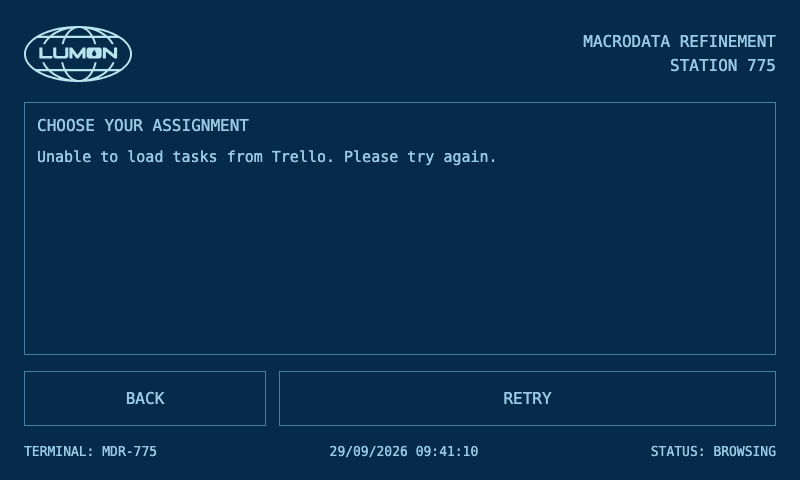
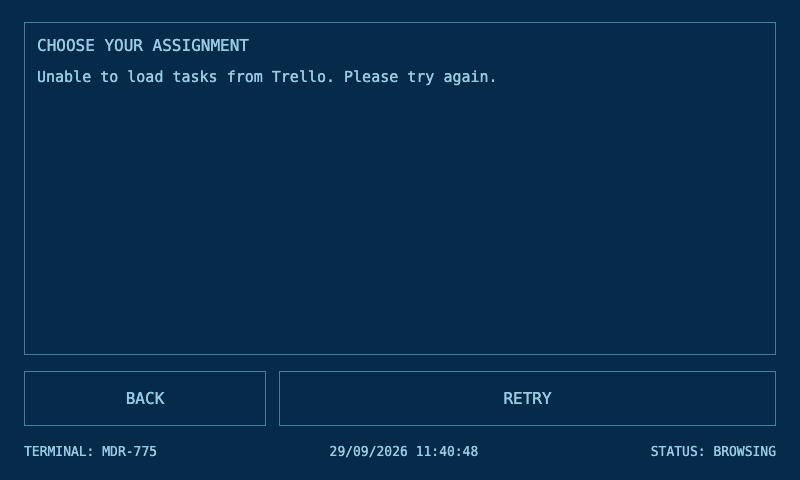
Simplify active task display and enlarge task cards

diff --git a/software/taskticket/static/terminal.js b/software/taskticket/static/terminal.js
@@ -4,10 +4,7 @@
   const buttons = [el('newTaskBtn'), el('yesBtn'), el('noBtn')];
   let currentTask = null;
   let busy = false;
-  let timer = null;
   let startedAt = 0;
-  let estimatedSeconds = 0;
-  let challengeSeconds = 0;
   let online = null;
   let timezone = 'Europe/Luxembourg';
   let pickerView = null;
@@ -54,7 +51,7 @@
       numberCells = Array.from({ length: columns * rows }, () => ({ digit: Math.floor(random() * 10), phase: random() * Math.PI * 2 }));
     }
     const style = getComputedStyle(document.body);
-    const moving = !reducedMotion.matches && estimatedSeconds > 0 && Date.now() - startedAt < estimatedSeconds * 1000;
+    const moving = !reducedMotion.matches && currentTask !== null;
     if (moving) numberTime = performance.now() / 6000;
     numberContext.setTransform(scale, 0, 0, scale, 0, 0);
     numberContext.clearRect(0, 0, width, height);
@@ -81,7 +78,7 @@
     pauseNumbers();
     if (!currentTask || el('numberField').hidden) return;
     drawNumbers();
-    if (!reducedMotion.matches && !document.hidden && Date.now() - startedAt < estimatedSeconds * 1000) {
+    if (!reducedMotion.matches && !document.hidden) {
       numberInterval = setInterval(drawNumbers, 150);
     }
   }
@@ -89,6 +86,7 @@
   function updateControls() {
     const picking = pickerView !== null;
     document.body.classList.toggle('picking', picking);
+    document.body.classList.toggle('browsing-grid', pickerView === 'grid');
     document.querySelector('nav.actions').hidden = picking;
     el('pickerActions').hidden = !picking;
     el('taskPicker').hidden = pickerView !== 'grid';
@@ -237,51 +235,21 @@
     }
   }
 
-  function stopTimer() {
-    if (timer !== null) clearInterval(timer);
-    timer = null;
-    el('taskTimer').hidden = true;
-    if (el('progressSummary')) el('progressSummary').hidden = true;
+  function stopTaskDisplay() {
     pauseNumbers();
     el('numberField').hidden = true;
-    el('sessionProgress').textContent = 'Awaiting task';
-    el('focusProgress').style.width = '0%';
-    document.body.classList.remove('time-warning', 'time-danger');
-  }
-
-  function formatTime(seconds) {
-    const value = Math.max(0, Math.ceil(seconds));
-    return `${String(Math.floor(value / 60)).padStart(2, '0')}:${String(value % 60).padStart(2, '0')}`;
-  }
-
-  function updateTimer() {
-    const elapsed = (Date.now() - startedAt) / 1000;
-    const percent = Math.min(100, Math.max(0, Math.floor(elapsed / estimatedSeconds * 100)));
-    el('sessionProgress').textContent = `${percent}% Elapsed`;
-    el('focusProgress').style.width = `${percent}%`;
-    el('estimatedTimeDisplay').textContent = formatTime(estimatedSeconds - elapsed);
-    el('challengeTimeDisplay').textContent = formatTime(challengeSeconds - elapsed);
-    document.body.classList.toggle('time-warning', elapsed >= estimatedSeconds);
-    document.body.classList.toggle('time-danger', challengeSeconds > 0 && elapsed >= challengeSeconds);
-    if (percent >= 100) pauseNumbers();
   }
 
   function showTask(task, start = Date.now()) {
     pickerView = null;
     pickerGroup = null;
     selectedTask = null;
-    const estimate = Number.parseFloat(task.estimated_time);
-    const challenge = Number.parseFloat(task.challenge_time);
-    estimatedSeconds = Number.isFinite(estimate) && estimate > 0 ? estimate * 60 : 15 * 60;
-    challengeSeconds = Number.isFinite(challenge) && challenge > 0 ? challenge * 60 : 0;
-    render(task.ticket_title || task.title || 'Your assignment', task.motivation || 'Please proceed with your important work.');
-    el('taskTimer').hidden = false;
-    if (el('progressSummary')) el('progressSummary').hidden = false;
-    el('challengeRow').hidden = challengeSeconds === 0;
+    // Older saved assignments also contain this fixed-session boilerplate.
+    const description = String(task.motivation || 'Please proceed with your important work.')
+      .replace(/^A \d+(?:\.\d+)?-minute focus session\.\s*/i, '');
+    render(task.ticket_title || task.title || 'Your assignment', description);
     startedAt = Number.isFinite(start) ? Math.min(start, Date.now()) : Date.now();
     saveSession();
-    updateTimer();
-    timer = setInterval(updateTimer, 1000);
     numberSeed = task.task_id || task.ticket_title || '';
     numberCells = [];
     numberTime = 0;
@@ -313,7 +281,7 @@
     render('Retrieving assignment', 'Please wait. Your ticket will print when ready.');
     try {
       const result = await request('/print_task', chosenTask ? { task_id: chosenTask.task_id } : undefined);
-      stopTimer();
+      stopTaskDisplay();
       currentTask = result.task;
       showTask(currentTask);
     } catch (error) {
@@ -343,7 +311,7 @@
       await request(action === 'complete' ? '/complete_task' : '/skip_task', {
         task_id: currentTask.task_id, source_list: currentTask.source_list
       });
-      stopTimer();
+      stopTaskDisplay();
       currentTask = null;
       saveSession();
       if (action === 'complete') {
@@ -352,7 +320,7 @@
         render('Assignment deferred', 'This task will be held for seven days.\nSelect New Task to continue your work.');
       }
     } catch (error) {
-      // Keep the current task and timer so failed actions can be retried.
+      // Keep the current task so failed actions can be retried.
       render('System notice', 'The assignment remains open here. Its update could not be confirmed; check Trello before retrying.');
     } finally {
       busy = false;

diff --git a/software/taskticket/static/terminal-shared.css b/software/taskticket/static/terminal-shared.css
@@ -4,9 +4,6 @@ html, body, *, *::before, *::after { cursor: none !important; }
 .theme-link:focus-visible { outline: 1px solid var(--ink); outline-offset: 3px; }
 .refinement-field { flex: 0 0 70px; margin-top: 8px; min-width: 0; overflow: hidden; pointer-events: none; }
 .refinement-field canvas { display: block; width: 100%; height: 70px; }
-.session-progress { display: flex; align-items: center; gap: 9px; font-size: 12px; white-space: nowrap; }
-.session-progress .progress-track { width: 65px; height: 7px; border: 1px solid var(--line); padding: 1px; }
-.session-progress #focusProgress { height: 100%; width: 0; background: var(--ink); }
 .workspace-bottom { flex-wrap: wrap; }
 .wide-action { grid-column: span 2; }
 .task-picker { flex: 1; min-height: 0; display: flex; flex-direction: column; gap: 9px; }
@@ -18,9 +15,9 @@ html, body, *, *::before, *::after { cursor: none !important; }
 .task-grid { flex: 1; min-height: 0; display: grid; grid-template-columns: repeat(3, minmax(0, 1fr)); grid-template-rows: repeat(3, minmax(0, 1fr)); gap: 8px; }
 .task-card { min-height: 0; min-width: 0; padding: 6px 9px; display: flex; flex-direction: column; justify-content: center; align-items: stretch; text-align: left; gap: 3px; overflow: hidden; }
 .task-card::before { display: none; }
-.task-card-title { font-size: 14px; line-height: 1.25; overflow-wrap: anywhere; display: -webkit-box; -webkit-box-orient: vertical; -webkit-line-clamp: 2; overflow: hidden; }
+.task-card-title { font-size: 14px; line-height: 1.25; overflow-wrap: anywhere; display: -webkit-box; -webkit-box-orient: vertical; -webkit-line-clamp: 3; overflow: hidden; }
 .task-card-source { font-size: 10px; line-height: 1.2; letter-spacing: .06em; }
 .task-card:active:not(:disabled), .picker-actions button:active:not(:disabled) { background: var(--ink); color: var(--bg); }
 body.picking .workspace { padding: 12px; }
 body.picking .workspace-bottom { display: none; }
-@media (max-width: 640px) { .session-progress { font-size: 10px; } .session-progress .progress-track { width: 45px; } }
+body.browsing-grid .masthead { display: none; }

diff --git a/software/taskticket/templates/terminal_mdr.html b/software/taskticket/templates/terminal_mdr.html
@@ -5,17 +5,13 @@
   <meta name="viewport" content="width=device-width, initial-scale=1">
   <title>Lumon · Task Refinement</title>
   <link rel="stylesheet" href="/static/terminal-mdr.css?v=4">
-  <link rel="stylesheet" href="/static/terminal-shared.css?v=7">
-  <script defer src="/static/terminal.js?v=7"></script>
+  <link rel="stylesheet" href="/static/terminal-shared.css?v=8">
+  <script defer src="/static/terminal.js?v=8"></script>
 </head>
 <body>
   <main class="terminal">
     <header class="masthead">
       <h1>Task Refinement</h1>
-      <div class="file-progress" aria-label="Focus session elapsed">
-        <span class="progress-label" id="sessionProgress">Awaiting task</span>
-        <div class="progress-track"><div id="focusProgress"></div></div>
-      </div>
       <a class="theme-link" href="/display?theme=classic" aria-label="Switch terminal layout" title="Switch terminal layout"><img class="logo" src="/static/lumon.svg" alt="Lumon Industries" width="76" height="38"></a>
     </header>
     <section class="workspace" aria-label="Current assignment">
@@ -31,10 +27,6 @@
       <div class="refinement-field" id="numberField" hidden aria-hidden="true"><canvas id="numberCanvas"></canvas></div>
       <div class="workspace-bottom">
         <span class="file-label">Macrodata Refinement</span>
-        <aside class="timer" id="taskTimer" hidden aria-label="Assignment timer">
-          <span>Focus <span class="timer-value" id="estimatedTimeDisplay">--:--</span></span>
-          <span class="challenge" id="challengeRow" hidden>Challenge <span id="challengeTimeDisplay">--:--</span></span>
-        </aside>
       </div>
     </section>
     <nav class="actions" aria-label="Task actions">

diff --git a/software/taskticket/templates/terminal.html b/software/taskticket/templates/terminal.html
@@ -5,8 +5,8 @@
   <meta name="viewport" content="width=device-width, initial-scale=1">
   <title>Lumon · Macrodata Refinement</title>
   <link rel="stylesheet" href="/static/terminal.css?v=4">
-  <link rel="stylesheet" href="/static/terminal-shared.css?v=7">
-  <script defer src="/static/terminal.js?v=7"></script>
+  <link rel="stylesheet" href="/static/terminal-shared.css?v=8">
+  <script defer src="/static/terminal.js?v=8"></script>
 </head>
 <body>
   <main class="terminal">
@@ -30,11 +30,6 @@
       <div class="refinement-field" id="numberField" hidden aria-hidden="true"><canvas id="numberCanvas"></canvas></div>
       <div class="workspace-bottom">
         <div class="terminal-prompt">mdr&gt;<span class="cursor" aria-hidden="true"></span></div>
-        <div class="session-progress" id="progressSummary" hidden><span id="sessionProgress">Awaiting task</span><div class="progress-track"><div id="focusProgress"></div></div></div>
-        <aside class="timer" id="taskTimer" hidden aria-label="Assignment timer">
-          <span>FOCUS <span class="timer-value" id="estimatedTimeDisplay">--:--</span></span>
-          <span class="challenge" id="challengeRow" hidden>CHALLENGE <span id="challengeTimeDisplay">--:--</span></span>
-        </aside>
       </div>
     </section>
     <nav class="actions" aria-label="Task actions">

diff --git a/software/deploy_compact_grid.py b/software/deploy_compact_grid.py
@@ -1,0 +1,81 @@
+"""Guarded compact-grid deployment; never issues a ticket or edits task history."""
+from datetime import datetime, timezone
+import hashlib
+import json
+from pathlib import Path
+import shutil
+import subprocess
+import time
+from urllib.request import urlopen
+
+app = Path('/home/srizzo/taskticket/TaskTicket')
+stage = Path(__file__).resolve().parent / 'taskticket'
[1 lines of base64/hex data omitted]
+
+
+def digest(path):
+    return hashlib.sha256(path.read_bytes()).hexdigest()
+
+
+def kiosk(action):
+    subprocess.run(['sudo', '-n', 'systemctl', action, 'taskiosk.service'], check=True)
+
+
+def subscriber_pid():
+    return subprocess.check_output(['systemctl', 'show', 'thermal-printer-subscriber.service', '-p', 'MainPID', '--value'], text=True).strip()
+
+
+for relative, checksum in expected.items():
+    if digest(app / relative) != checksum:
+        raise SystemExit('Source changed since inspection: ' + relative)
+    if not (stage / relative).is_file():
+        raise SystemExit('Missing staged file: ' + relative)
+    if relative.endswith('.py'):
+        compile((stage / relative).read_text(), relative, 'exec')
+
+backup = app.parent / 'backups' / ('compact-grid-' + datetime.now(timezone.utc).strftime('%Y%m%dT%H%M%SZ'))
+backup.mkdir(parents=True, exist_ok=False)
+for relative in expected:
+    (backup / relative).parent.mkdir(parents=True, exist_ok=True)
+    shutil.copy2(app / relative, backup / relative)
+
+history = app / 'data/task_history.json'
+subscriber_before = subscriber_pid()
+kiosk('stop')
+history_hash = digest(history)
+try:
+    for relative in expected:
+        shutil.copy2(stage / relative, app / relative)
+    kiosk('start')
+    for attempt in range(30):
+        try:
+            with urlopen('http://127.0.0.1:5000/display', timeout=2) as response:
+                body = response.read()
+                if b'id="manageBtn"' in body and b'terminal.js?v=8' in body:
+                    break
+        except OSError:
+            pass
+        time.sleep(1)
+    else:
+        raise RuntimeError('Updated kiosk did not become healthy')
+    with urlopen('http://127.0.0.1:5000/display?theme=mdr', timeout=5) as response:
+        assert b'id="taskGrid"' in response.read()
+    assert digest(history) == history_hash, 'History changed during deployment'
+    assert subscriber_pid() == subscriber_before, 'Message-printer service restarted unexpectedly'
+except Exception:
+    kiosk('stop')
+    for relative in expected:
+        shutil.copy2(backup / relative, app / relative)
+    kiosk('start')
+    raise
+
+manifest = {
+    'deployed_at': datetime.now(timezone.utc).isoformat(), 'backup': str(backup),
+    'changed_files': list(expected), 'history_unchanged': digest(history) == history_hash,
+    'subscriber_pid_unchanged': subscriber_before == subscriber_pid(),
+    'deployed_sha256': {relative: digest(app / relative) for relative in expected},
+    'version': 'Larger task cards; no fixed focus UI on active tasks',
+    'rollback': 'Stop taskiosk.service, restore changed_files from backup, then start taskiosk.service.',
+}
+(backup / 'deployment.json').write_text(json.dumps(manifest, indent=2) + '\n')
+print(json.dumps(manifest))

diff --git a/software/preview/server.py b/software/preview/server.py
@@ -68,7 +68,7 @@ class Preview(SimpleHTTPRequestHandler):
             if 'task_id' in data:
                 chosen = next((task for task in tasks if task['task_id'] == data['task_id']),None)
                 if chosen is None: return self.json({'success':False},404)
-                state['current_task'] = {**chosen, 'ticket_title':chosen['title'], 'estimated_time':'15', 'selection_method':'manual'}
+                state['current_task'] = {**chosen, 'ticket_title':chosen['title'], 'estimated_time':'15', 'selection_method':'manual', 'motivation':'A 15-minute focus session. One task at a time.'}
             state["started_at"] = time.time() * 1000
             return self.json({"success": True, "task": state["current_task"]})
         if self.path in ("/complete_task", "/skip_task"):

diff --git a/software/README.md b/software/README.md
@@ -17,6 +17,9 @@ It opens a 3 × 3 grid of Trello cards, with Previous/Next for additional pages.
 DOING and TODO tasks appear directly; **Better Than Nothing** appears as one
 group card showing its task count. Tap it to browse its own 3 × 3 grid.
 **Back to Main** returns to the parent page, and the group itself never prints.
+The logo/station header is hidden in both grids to give the cards more vertical
+space and up to three lines for their titles. It returns on the welcome,
+task-detail and active-task screens; the connection footer remains visible.
 The main grid shows **Total focus** beside the page count: the number of open
 DOING/TODO tasks across every page multiplied by the configured focus-session
 duration (currently 15 minutes). Better Than Nothing tasks and the group card
@@ -24,7 +27,7 @@ are excluded. This is planned focus time, not a prediction of completion time;
 the app does not currently store individual task-duration estimates. The total
 is hidden inside the nested group, while loading, and on errors.
 Tap a card to read its full title, then **Start & Print** to issue that specific
-task and start its normal focus timer. Back returns to the same grid page.
+task. Back returns to the same grid page.
 Both layouts support the picker; **M** opens it and Escape goes back.
 Complete and Skip return when an assignment is active.
 
@@ -34,19 +37,18 @@ deliberately bypasses the automatic selector's cooldown and weighting, and never
 uses AI. Merely browsing or inspecting a card does not print or update history.
 The server rechecks open cards before printing, so a card completed or archived
 elsewhere cannot silently issue an unrelated task. Tickets record
-`selection_method=manual`; completion, timer restoration and printing use the
+`selection_method=manual`; completion, assignment restoration and printing use the
 existing workflow. [Picker preview with synthetic tasks](preview/manage-classic-grid.png).
 
 Both layouts hide the mouse pointer, including over controls. The kiosk also
 runs `unclutter-xfixes` with a one-second idle timeout to hide the native X11
 pointer before Chromium receives its first mouse-motion event. Its process is
-supervised by the existing kiosk launcher. During an active
-task, a percentage and progress bar show elapsed focus-session time, alongside
-the countdown. This does not claim to measure task completion and reaching 100%
-does not complete the task. A small field of drifting numbers evokes *Severance*
-without covering task text or controls. It renders at roughly seven frames per
-second and pauses at timer expiry, in a hidden tab, or with reduced motion.
-The decorative numbers are not task data.
+supervised by the existing kiosk launcher. The active-task screen omits the
+fixed focus-session sentence, countdown and percentage bar, including when
+restoring an older assignment. A small field of drifting numbers evokes
+*Severance* without covering task text or controls. It renders at roughly seven
+frames per second while an assignment is active and pauses in a hidden tab or
+with reduced motion. The decorative numbers are not task data.
 
 Switching layouts or reloading restores the latest open assignment and original
 start time without selecting or printing another ticket. Newly issued tasks
@@ -66,7 +68,7 @@ assets to avoid stale pages after an update.
 ## What changed
 
 - The preferred blue terminal interface with the enclosure's Lumon globe,
-  large touch buttons, a focus timer and the newer layout available as an option.
+  large touch buttons, decorative numbers and the newer layout available as an option.
 - Real Trello connection status and queue data, refreshed every minute.
   API failures appear as unavailable rather than an empty queue.
 - Task selection runs locally by default. It excludes tasks skipped within
@@ -105,7 +107,7 @@ Defaults work without changes to the existing Pi configuration:
 | --- | --- | --- |
 | `TASKTICKET_USE_AI` | `0` | Set to `1` to try AI before local fallback. |
 | `TASKTICKET_AI_MODEL` | `qwen/qwen3.7-flash` | Optional OpenRouter model. |
-| `TASKTICKET_FOCUS_MINUTES` | `15` | Focus timer duration, bounded to 1–120. |
+| `TASKTICKET_FOCUS_MINUTES` | `15` | Focus allowance for tickets and the grid total, bounded to 1–120. |
 | `TASKTICKET_TIMEZONE` | `Europe/Luxembourg` | Selection schedule and UI clock. |
 | `PRINTER_TASK_LOGO` | `1` | Include the Lumon globe on the work slip; set to `0` to omit it. |
 | `PRINTER_WIDTH_DOTS` | `576` | Printable dot width for centring the logo on the POS80. |
@@ -143,7 +145,7 @@ creating an AI client, modifying history or invoking the printer.
 
 Twenty-one Python checks passed: three status checks, nine selection checks and
 nine route/history checks. Browser checks passed at 800 × 480, including
-55-pixel default touch targets, timers and assignment text without overflow,
+55-pixel default touch targets and assignment text without overflow,
 pointer hiding in both layouts, preserved sessions when switching, double-tap
 protection, animation and reduced-motion behavior, failed-action retry,
 completion state and offline status. These tests use
@@ -169,14 +171,16 @@ Manual-selection checks are included in `check_selection.py` and
 `node software/preview/check_manage.mjs` checks both layouts at 800 × 480:
 nested grouping and pagination, parent-page restoration, full-title inspection, cursor hiding, safe text rendering,
 double-tap protection, session restoration, empty/offline/stale-card handling,
-and returning to automatic selection. Results are in
+hidden grid headers, cards at least 75 pixels tall, and returning to automatic selection. Results are in
 `preview/manage-ui-check.json`; these checks use synthetic tasks and do not print.
 
 `preview/server.py` provides an isolated UI preview at `127.0.0.1:8655`.
 `preview/check_ui.mjs` exercises that preview through an isolated Chrome
 debugging port at `127.0.0.1:9226`; it requires Node with built-in WebSocket
-support. The current result is saved in `preview/themes-ui-check.json`, including
-elapsed-progress/timer and animation checks. `preview/mdr-ui-check.json` records
+support. The current result is saved in `preview/compact-ui-check.json`, including
+removal of the fixed focus display, restoration of older assignments, and
+animation checks. `preview/themes-ui-check.json` records the earlier timer
+release. `preview/mdr-ui-check.json` records
 the earlier optional layout release. `preview/simple-ui-check.json` and
 `preview/ui-check.json` record the previous designs' checks.
 
@@ -189,6 +193,10 @@ work-slip proofs are described above. Tap **New Task** on the terminal to
 exercise the physical task workflow when wanted.
 
 ## Deployment and recovery
+
+The simplified task screen and larger task cards are recorded in
+`release/compact-grid-deployment.json`. Restore its four `changed_files` from
+the recorded backup and restart `taskiosk.service` to undo this UI update.
 
 The grid's total-focus display is recorded in `release/task-total-deployment.json`.
 Restore its five `changed_files` from the recorded backup and restart
